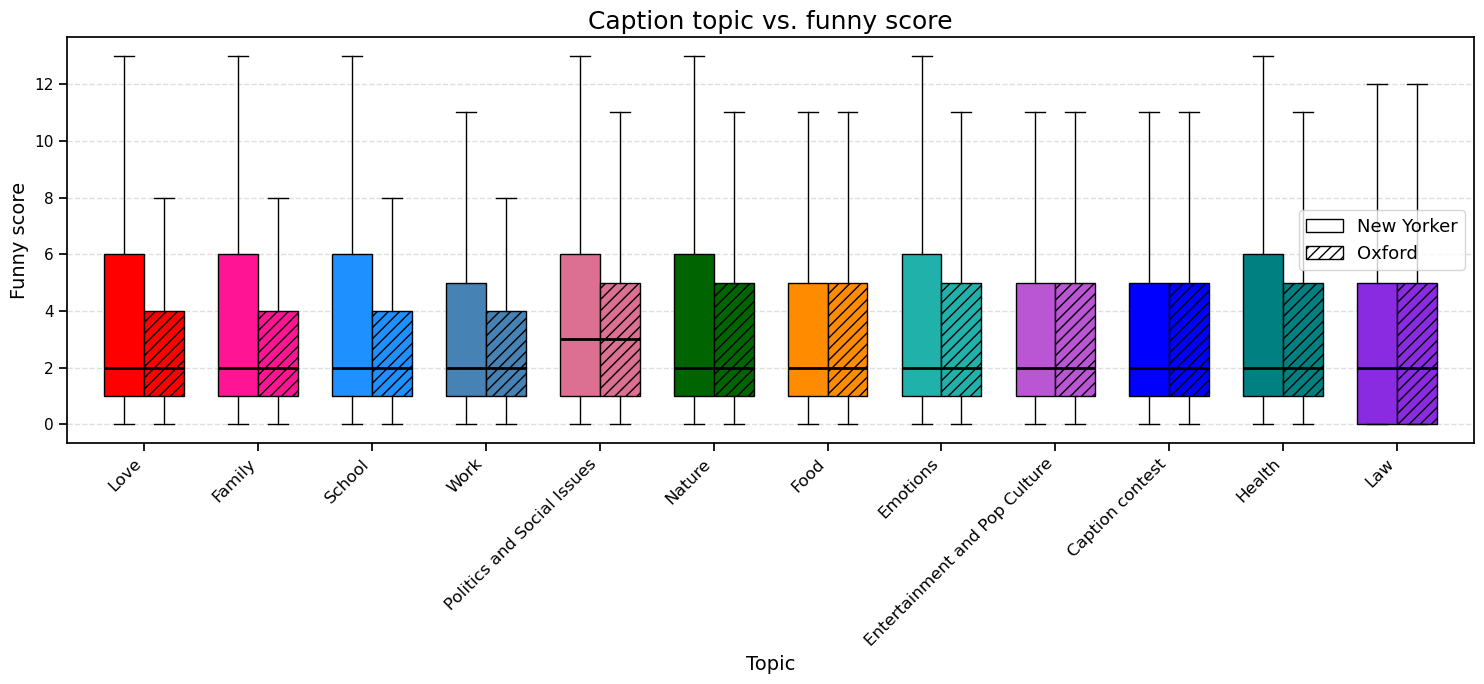
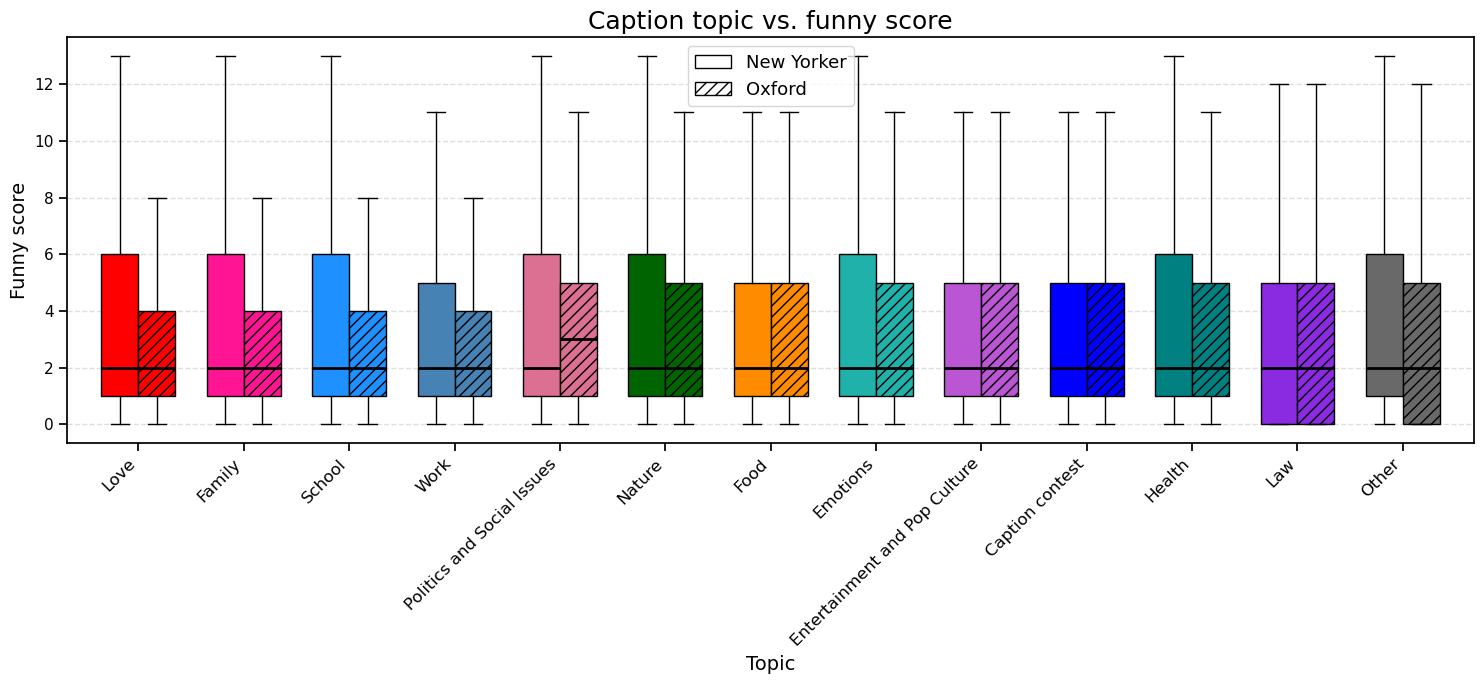
New interpretations + models&methods

diff --git a/index.html b/index.html
@@ -334,33 +334,32 @@
 						<iframe src="topic_distribution_piechart.html" width="100%" height="600" frameborder="0"></iframe>
 					</div>
 					<p style="margin-top: -30px;"></p>
-					<p>The distribution of topics in NYCC and OHIC revealed both shared and unique trends. Topics like <strong style="color:red;">Love</strong>, <strong style="color:deeppink;">Family</strong>, and <strong style="color:steelblue;">Work</strong> were the most frequently occurring, reflecting shared social roles, domestic life, and workplace dynamics. In contrast, topics like <strong style="color:palevioletred;">Politics and Social Issues</strong> were more prominent in OHIC, aligning with its internet-based context and focus on societal critique. Other topics, such as <strong style="color:darkgreen;">Nature</strong>, <strong style="color:darkorange;">Food</strong>, and <strong style="color:mediumorchid;">Entertainment and Pop Culture</strong>, highlighted environmental concerns, cultural rituals, and media consumption, while institutional topics like <strong style="color:teal;">Health</strong> and <strong style="color:blueviolet;">Law</strong> critiqued societal structures and professional roles.</p>
+					<p>This figure compares the normalized topic distributions of captions from NYCC and OHIC. While both datasets cover a similar range of themes, clear differences emerge in their relative emphasis across topics.</p>
+					<p>NYCC captions show a stronger concentration in <strong style="color:darkorange;">Food</strong>, <strong style="color:steelblue;">Work</strong>, <strong style="color:darkgreen;">Nature</strong>, and <strong style="color:teal;">Health</strong>. <strong style="color:darkorange;">Food</strong> is the most prominent topic, reflecting shared cultural experiences around eating, while <strong style="color:steelblue;">Work</strong> and <strong style="color:darkgreen;">Nature</strong> highlight professional life and environmental humor.</p>
+					<p>In contrast, OHIC captions are dominated by <strong style="color:blue;">Caption Contest</strong>, reflecting its self-referential and meme-driven nature. OHIC also emphasizes <strong style="color:blueviolet;">School</strong>, <strong style="color:red;">Emotions</strong>, <strong style="color:mediumorchid;">Entertainment and Pop Culture</strong>, <strong style="color:blueviolet;">Law</strong>, and <strong style="color:deeppink;">Love</strong>, showcasing a more expressive and pop-culture-oriented humor style.</p>
+					<p><strong style="color:palevioletred;">Politics and Social Issues</strong> are limited in both datasets but slightly more represented in OHIC. These differences highlight contrasting humor strategies: NYCC favors situational and observational humor, while OHIC leans toward self-referential and emotionally expressive humor. A limitation of this analysis is that the content of the images, which could heavily influence caption themes, is not considered.</p>
 
 					<!-- Topic vs. Funniness Scores -->
-					<h3><strong>2. Humor Type vs. Funniness Scores:</strong></h3>
+					<h3><strong>2. Topic vs. Funniness Scores:</strong></h3>
 					<div class="plot-container">
 						<img src="images/topic-vs-funniness.png" alt="Topic vs. Funniness Scores" />
 					</div>
-					<p>Our analysis revealed that topics like <strong style="color:red;">Love</strong> and <strong style="color:deeppink;">Family</strong> consistently scored higher in funniness, reflecting their broad appeal and relatability. These topics often draw on shared experiences and interpersonal dynamics, making them universally engaging. In contrast, topics like <strong style="color:palevioletred;">Politics and Social Issues</strong> were more polarizing, with mixed reactions from readers. This polarization may stem from the abstract and institutional language used in these captions, which focus on collective or systemic concepts rather than individual experiences.</p>
-
-					<!-- Topic vs. Rank -->
-					<h3><strong>3. Humor Type vs. Rank:</strong></h3>
-					<div class="plot-container">
-						<img src="images/topic-vs-rank.png" alt="Topic vs. Rank" />
-					</div>
-					<p>When analyzing topic vs. rank, relational topics like <strong style="color:red;">Love</strong> and <strong style="color:deeppink;">Family</strong> tended to achieve better ranks, reflecting their broad appeal and universal relatability. In contrast, topics like <strong style="color:palevioletred;">Politics and Social Issues</strong> and <strong style="color:darkgreen;">Nature</strong> often ranked lower, possibly due to their niche appeal or reliance on commentary and critique. Topics like <strong style="color:steelblue;">Work</strong> and <strong style="color:darkorange;">Food</strong> achieved moderate ranks, blending humor with shared cultural experiences and professional dynamics.</p>
-					<p style="margin-top: 40px">Overall, the topic classification highlights the diverse thematic dimensions of humor in the datasets. Relational topics like <strong style="color:red;">Love</strong> and <strong style="color:deeppink;">Family</strong> resonate broadly with audiences, while institutional topics like <strong style="color:teal;">Health</strong> and <strong style="color:blueviolet;">Law</strong> provide humor rooted in societal critique. The prominence of topics like <strong style="color:darkgreen;">Nature</strong> and <strong style="color:palevioletred;">Politics and Social Issues</strong> in OHIC reflects its internet-based context, where commentary and critique are more prevalent. These findings underscore the role of context and audience in shaping the thematic content of humor.</p>
+					<p>This figure shows the distribution of funny scores across topics for both NYCC and OHIC captions. While the distributions reveal substantial overlap, humor appreciation is influenced more by caption quality, phrasing, and context than by topic alone.</p>
+					<p>For most topics, including <strong style="color:darkorange;">Food</strong>, <strong style="color:mediumorchid;">Entertainment and Pop Culture</strong>, <strong style="color:blue;">Caption Contest</strong>, and <strong style="color:blueviolet;">Law</strong>, NYCC and OHIC captions achieve similar median funny scores, indicating comparable humorous effectiveness. However, <strong style="color:palevioletred;">Politics and Social Issues</strong> is the only topic where OHIC captions outperform NYCC, likely due to a more direct engagement with contemporary political content. In contrast, NYCC captions score higher for topics like <strong style="color:red;">Love</strong>, <strong style="color:deeppink;">Family</strong>, <strong style="color:blueviolet;">School</strong>, <strong style="color:darkgreen;">Nature</strong>, and <strong style="color:teal;">Health</strong>, suggesting more consistent humor in these themes.</p>				
+					<p>The high variance in funny scores across all topics, as shown by wide interquartile ranges and long whiskers, highlights that humor effectiveness depends on execution rather than thematic category. The <strong style="color:rgb(91, 91, 91);">Other</strong> category, as expected, shows the widest and most uneven distribution due to its heterogeneous nature.</p>			
+					
+					<p style="margin-top: 40px">Overall, the topic classification highlights the diverse thematic dimensions of humor in the datasets. Relational topics like <strong style="color:red;">Love</strong> and <strong style="color:deeppink;">Family</strong> resonate broadly with audiences, with NYCC captions achieving higher funniness scores in these themes. Institutional topics like <strong style="color:teal;">Health</strong> and <strong style="color:blueviolet;">Law</strong> provide humor rooted in societal critique, with both datasets showing comparable effectiveness in <strong style="color:blueviolet;">Law</strong>. The prominence of topics like <strong style="color:darkgreen;">Nature</strong> in NYCC reflects its focus on observational humor, while the higher representation of <strong style="color:palevioletred;">Politics and Social Issues</strong> in OHIC highlights its engagement with contemporary political content. These findings underscore the role of context, stylistic choices, and audience preferences in shaping the thematic content and reception of humor.</p>
 				</div>
 
 				<!-- Quiz Time 6 -->
 				<div class="inner align-center" id="quiz-6">
 					<h2>Quiz Time!</h2>
 					<div class="quiz-step" id="question-6">
-						<h3>Question 6: Which topic is most associated with relational humor?</h3>
+						<h3>Question 6: Which topic is the only one where OHIC captions outperform NYCC in funniness scores?</h3>
 						<div class="quiz-options">
-							<div class="quiz-option" data-answer="incorrect" data-next="data-story-7" data-feedback="Not quite! Politics is more associated with social critique.">Politics</div>
-							<div class="quiz-option" data-answer="incorrect" data-next="data-story-7" data-feedback="Not quite! Work is more associated with professional humor.">Work</div>
-							<div class="quiz-option" data-answer="correct" data-next="data-story-7" data-feedback="Correct! Love and Family are strongly associated with relational humor.">Love and Family</div>
+							<div class="quiz-option" data-answer="incorrect" data-next="data-story-7" data-feedback="Not quite! Love is more strongly associated with NYCC captions.">Love</div>
+							<div class="quiz-option" data-answer="incorrect" data-next="data-story-7" data-feedback="Not quite! Nature is more strongly associated with NYCC captions.">Nature</div>
+							<div class="quiz-option" data-answer="correct" data-next="data-story-7" data-feedback="Correct! Politics and Social Issues is the only topic where OHIC captions outperform NYCC.">Politics</div>
 						</div>
 						<p class="feedback hidden"></p>
 					</div>
@@ -370,8 +369,10 @@
 			<!-- 7. Word Clouds -->
 			<section class="wrapper style1" id="data-story-7">
 				<div class="inner align-left">
-					<h2>Word Clouds for Humor Types and Topics</h2>
+					<h2>Word Clouds</h2>
 					<p>Word clouds reveal the most frequent words associated with each humor type and topic, providing a quick overview of recurring themes in the datasets. These visualizations help identify the dominant vocabulary and recurring patterns in captions.</p>
+					
+					<h3><strong>1. Word Clouds for Humor Type:</strong></h3>
 					<p>For humor types, the word clouds highlight the distinct vocabulary used in different styles of humor:</p>
 					<div class="plot-container">
 						<img src="images/humor-types-word-clouds-nycc.png" alt="Word Clouds for Humor Types (NYCC)" />
@@ -384,21 +385,45 @@
 						<li><strong style="color:brown;">Raunchy:</strong> Words like "sexy," "bold," and "explicit" reflect humor that is risqué and adult-oriented.</li>
 						<li><strong style="color:gold;">Corny:</strong> Words like "joke," "dad," and "cheesy" emphasize humor that is predictable yet endearing.</li>
 					</ul>
+
+					<h3><strong>2. Word Clouds for Topics:</strong></h3>
 					<p>For topics, the word clouds illustrate the thematic focus of captions:</p>
 					<div class="plot-container">
 						<img src="images/topic-word-clouds-nycc.png" alt="Word Clouds for Topics (NYCC)" />
 						<img src="images/topic-word-clouds-ohic.png" alt="Word Clouds for Topics (OHIC)" />
 					</div>
+					<p><b>NYCC Caption Dataset:</b></p>
 					<ul>
-						<li><strong style="color:red;">Love:</strong> Words like "love," "kiss," and "heart" dominate, reflecting romantic and relational humor.</li>
-						<li><strong style="color:steelblue;">Work:</strong> Words like "job," "boss," and "office" highlight professional hierarchies and workplace stressors.</li>
-						<li><strong style="color:darkgreen;">Nature:</strong> Words like "trees," "planet," and "global warming" indicate environmental concerns blended with humor.</li>
-						<li><strong style="color:palevioletred;">Politics and Social Issues:</strong> Words like "debate," "government," and "climate change" reflect societal critique.</li>
-						<li><strong style="color:teal;">Health:</strong> Words like "doctor," "patient," and "hospital" emphasize healthcare-related humor.</li>
-						<li><strong style="color:mediumorchid;">Entertainment and Pop Culture:</strong> Words like "movie," "show," and "star" highlight media consumption and celebrity culture.</li>
+						<li><b style="color:red">Love:</b> Dominated by words like <i>kiss</i>, <i>heart</i>, <i>marriage</i>, and <i>sex</i>, reflecting interpersonal relationships and modern dating life.</li>
+						<li><b style="color:deeppink">Family:</b> Features terms like <i>home</i>, <i>Mom</i>, and <i>kid</i>, emphasizing domestic life and parental relationships.</li>
+						<li><b style="color:dodgerblue">School:</b> Includes <i>school</i>, <i>class</i>, and <i>college</i>, highlighting educational settings and recurring routines.</li>
+						<li><b style="color:steelblue">Work:</b> Words like <i>job</i>, <i>boss</i>, and <i>office</i> point to workplace stress and corporate culture.</li>
+						<li><b style="color:palevioletred">Politics and Social Issues:</b> Focuses on <i>politics</i>, <i>debate</i>, and <i>climate change</i>, emphasizing systemic critique.</li>
+						<li><b style="color:darkgreen">Nature:</b> Includes <i>trees</i>, <i>planet</i>, and <i>global warming</i>, blending environmental concerns with humor.</li>
+						<li><b style="color:darkorange">Food:</b> Features <i>restaurant</i>, <i>pizza</i>, and <i>menu</i>, reflecting shared cultural experiences around eating.</li>
+						<li><b style="color:lightseagreen">Emotions:</b> Marked by introspective terms like <i>feel</i>, <i>cry</i>, and <i>therapy</i>, emphasizing emotional vulnerability.</li>
+						<li><b style="color:mediumorchid">Entertainment and Pop Culture:</b> Includes <i>movie</i>, <i>TV</i>, and <i>star</i>, reflecting humor grounded in media and celebrity culture.</li>
+						<li><b style="color:blue">Caption Contest:</b> Self-referential terms like <i>caption</i>, <i>joke</i>, and <i>funny</i> dominate.</li>
+						<li><b style="color:teal">Health</b> and <b style="color:blueviolet">Law:</b> Specialized vocabularies focus on <i>doctor</i>, <i>hospital</i>, <i>lawyer</i>, and <i>court</i>.</li>
+						<li><b style="color:dimgrey">Other:</b> Generic terms like <i>thing</i> and <i>people</i>, serving as a residual category.</li>
 					</ul>
-					<p>These word clouds illustrate how different humor types and topics are characterized by distinct vocabularies. For instance, relational humor in the <strong style="color:red;">Love</strong> and <strong style="color:deeppink;">Family</strong> topics is strongly tied to interpersonal and emotional language, while the <strong style="color:darkgreen;">Nature</strong> topic often blends environmental themes with observational humor.</p>
-					<p>By analyzing these word clouds, we can better understand the thematic focus of captions and the recurring patterns that resonate with readers. These insights provide a qualitative understanding of how humor is expressed across different styles and themes.</p>
+					
+					<p><b>OHIC Caption Dataset:</b></p>
+					<ul>
+						<li><b style="color:red">Love:</b> Words like <i>relationship</i>, <i>crush</i>, and <i>friend</i> emphasize modern dating culture and youth-oriented humor.</li>
+						<li><b style="color:deeppink">Family:</b> Informal terms like <i>mom</i>, <i>dad</i>, and <i>house</i> focus on everyday domestic situations.</li>
+						<li><b style="color:dodgerblue">School:</b> Includes <i>teacher</i>, <i>homework</i>, and <i>exam</i>, reflecting shared student struggles.</li>
+						<li><b style="color:steelblue">Work:</b> Words like <i>job</i>, <i>boss</i>, and <i>money</i> highlight time pressure and compensation.</li>
+						<li><b style="color:palevioletred">Politics and Social Issues:</b> Features <i>government</i>, <i>election</i>, and <i>freedom</i>, with explicit references to contemporary figures like <i>Trump</i>.</li>
+						<li><b style="color:darkgreen">Nature:</b> Focuses on <i>tree</i>, <i>sky</i>, and <i>rain</i>, emphasizing situational contrasts over climate discourse.</li>
+						<li><b style="color:darkorange">Food:</b> Includes <i>chicken</i>, <i>Taco Bell</i>, and <i>pizza</i>, reflecting humor tied to pop culture and consumption habits.</li>
+						<li><b style="color:lightseagreen">Emotions:</b> Words like <i>sad</i>, <i>happy</i>, and <i>anxiety</i> emphasize explicit emotional expression.</li>
+						<li><b style="color:mediumorchid">Entertainment and Pop Culture:</b> Features <i>anime</i>, <i>Fortnite</i>, and <i>Disney</i>, relying on internet culture and fandoms.</li>
+						<li><b style="color:blue">Caption Contest:</b> Includes <i>meme</i>, <i>post</i>, and <i>funny</i>, highlighting meta-awareness of captioning as a social activity.</li>
+						<li><b style="color:teal">Health:</b> Pandemic-related terms like <i>covid</i> and <i>vaccine</i> dominate.</li>
+						<li><b style="color:blueviolet">Law:</b> Includes <i>lawyer</i>, <i>court</i>, and <i>crime</i>, framed through dialogue and interpersonal tension.</li>
+						<li><b style="color:dimgrey">Other:</b> Generic conversational tokens like <i>day</i> and <i>thing</i>.</li>
+					</ul>
 				</div>
 
 				<!-- Quiz Time 7 -->
@@ -469,21 +494,34 @@
 					
 					<!-- Topic Proportions Over Time -->
 					<h3><strong>1. Topic Proportions Over Time:</strong></h3>
-					<p>The interactive plot below illustrates the proportions of various topics in captions over time. You can explore the trends by hovering over the lines to see specific values for each year and topic.</p>
+					<p>This figure presents a line plot of normalized topic distributions in NYCC captions over time. The interactive plot below allows you to explore the proportions of various topics by hovering over the lines to see specific values for each year and topic.</p>
 					<p style="margin-top: -20px;"></p>
 					<div class="plot-container">
 						<iframe src="http://127.0.0.1:8060" style="width: 100%; height: 600px; border: none;"></iframe>
 					</div>
-					<p>The topic proportions over time highlight the dominance of certain themes, such as <strong style="color:darkorange;">Food</strong> and <strong style="color:blue;">Caption Contest</strong>, which consistently maintain high proportions across the years. These topics reflect universal and timeless themes that resonate broadly with audiences. Additionally, the overall stability of the curves suggests that the thematic focus of captions remains relatively consistent over time, with each topic maintaining a steady presence in the dataset.</p>
-					
+					<p>The topic proportions over time highlight the dominance of certain themes, such as <strong style="color:darkorange;">Food</strong> and <strong style="color:blue;">Caption Contest</strong>, which consistently maintain high proportions across the years. These topics reflect universal and timeless themes that resonate broadly with audiences. Other topics, such as <strong style="color:red;">Love</strong>, <strong style="color:deeppink;">Family</strong>, and <strong style="color:darkgreen;">Nature</strong>, remain steady over time, with occasional spikes reflecting specific cultural or societal moments.</p>
+
 					<!-- Topic Variation Heatmap -->
 					<h3><strong>2. Topic Variation Heatmap:</strong></h3>
+					<p>This figure presents a heatmap of the standardized variation (z-scores) of topic proportions in NYCC captions over time. Deviations from the mean highlight periods during which certain themes became unusually prominent or marginal, often aligning with major social, political, and global events.</p>
 					<div class="plot-container">
 						<iframe src="topic_variation_heatmap.html" style="width: 100%; height: 600px; border: none;"></iframe>
 					</div>
-					<p style="margin-top: -20px;">The heatmap of topic variation (z-scores) provides a deeper look at deviations from the mean topic proportions. Notable spikes in specific years highlight the influence of external events on humor. For instance, in <strong>2016</strong>, captions related to <strong style="color:blueviolet;">Law</strong> and <strong style="color:palevioletred;">Politics and Social Issues</strong> peaked, coinciding with the U.S. presidential election and the rise of Trump. Similarly, in <strong>2022</strong> and <strong>2024</strong>, there is a noticeable rise in captions about <strong style="color:mediumorchid;">Entertainment and Pop Culture</strong>, possibly reflecting the growing influence of media consumption, celebrity culture, and the resurgence of major global events like the Oscars or the World Cup.</p>
-					
-					<p>These analyses demonstrate how external events and societal changes shape the thematic focus of humor over time. By examining these trends, we gain insights into the dynamic interplay between cultural context and humor.</p>
+					<p style="margin-top: -20px;">The heatmap reveals several notable trends:</p>
+					<ul>
+						<li><strong style="color:red;">Love</strong> and <strong style="color:deeppink;">Family</strong>: These themes remain steady over the years, with sharp rises in 2019 for Love and 2022 for Family, possibly reflecting cultural shifts or societal well-being.</li>
+						<li><strong style="color:dodgerblue;">School</strong>: Mentions of School increase substantially in 2021 and 2023, aligning with Covid’s long-term impact on education and the launch of ChatGPT, which affected university students.</li>
+						<li><strong style="color:steelblue;">Work</strong>: Overrepresented in 2016, reflecting pre-pandemic concerns about corporate culture, with renewed interest in 2023 linked to post-pandemic work reorganization.</li>
+						<li><strong style="color:palevioletred;">Politics and Social Issues</strong>: Peaks in 2016 and 2019 align with the U.S. presidential election and Trump impeachment proceedings, followed by a decline after 2020 as political satire gave way to more personal themes.</li>
+						<li><strong style="color:darkgreen;">Nature</strong>: Peaked in 2024, reflecting increased public concern over climate change and environmental issues.</li>
+						<li><strong style="color:darkorange;">Food</strong>: Consistently the most prominent topic, reflecting its universal appeal and cultural significance.</li>
+						<li><strong style="color:lightseagreen;">Emotions</strong>: Declined in 2017 but rose steadily afterward, capturing post-pandemic emotional reflection and a broader openness to discussing mental health.</li>
+						<li><strong style="color:mediumorchid;">Entertainment and Pop Culture</strong>: Steady over the years, with a slight increase from 2022, reflecting the rise of TikTok, Instagram reels, and global events like the Oscars and World Cup.</li>
+						<li><strong style="color:blue;">Caption Contest</strong>: Dominates NYCC captions alongside Food, with a sharp rise in 2024, possibly due to increased audience familiarity with the contest format.</li>
+						<li><strong style="color:teal;">Health</strong>: Peaked in 2020 and 2023 due to the Covid pandemic and its aftermath, with a decline in 2024 reflecting pandemic fatigue.</li>
+						<li><strong style="color:blueviolet;">Law</strong>: Peaked in 2016 during election-related legal disputes, with a decline in 2022–2024 as media focus on high-profile court cases waned.</li>
+					</ul>
+					<p>Overall, these analyses demonstrate how external events and societal changes shape the thematic focus of humor over time. By examining these trends, we gain insights into the dynamic interplay between cultural context and humor.</p>
 				</div>
 
 				<!-- Quiz Time 9 -->

diff --git a/models-methods.html b/models-methods.html
@@ -118,13 +118,25 @@
             <section class="spotlight style1 orient-right content-align-left image-position-center onscroll-image-fade-in" id="temporal-trends">
                 <div class="content">
                     <h2>4. Temporal and Cultural Trend Analysis</h2>
-                    <p><strong>Goal:</strong> Track how humor evolves across time.</p>
+                    <p><strong>Goal:</strong> Analyze how humor themes evolve over time and correlate with major sociopolitical and cultural events.</p>
+                    <p><strong>Methodology:</strong></p>
                     <ul>
-                        <li>Group captions by year and compute theme proportions.</li>
-                        <li>Detect major shifts in humor trends.</li>
-                        <li>Correlate with sociopolitical events using contextual data.</li>
-                        <li>Visualize using stacked bar charts or rolling averages.</li>
+                        <li>Group captions by year and compute the normalized proportions of topics.</li>
+                        <li>Visualize topic trends over time using interactive line plots.</li>
+                        <li>Analyze deviations from the mean topic proportions using z-scores and visualize them with heatmaps.</li>
+                        <li>Identify and interpret notable spikes or declines in topic proportions in relation to external events.</li>
                     </ul>
+                    <p><strong>Key Findings:</strong></p>
+                    <ul>
+                        <li><strong style="color:darkorange;">Food</strong> and <strong style="color:blue;">Caption Contest</strong> consistently dominate the dataset, reflecting universal and timeless themes.</li>
+                        <li><strong style="color:red;">Love</strong> and <strong style="color:deeppink;">Family</strong> remain steady over time, with occasional spikes reflecting cultural or societal moments.</li>
+                        <li><strong style="color:palevioletred;">Politics and Social Issues</strong> peaked in 2016 and 2019, aligning with the U.S. presidential election and Trump impeachment proceedings, before declining post-2020.</li>
+                        <li><strong style="color:steelblue;">Work</strong> showed renewed interest in 2023, reflecting post-pandemic work reorganization and burnout discussions.</li>
+                        <li><strong style="color:darkgreen;">Nature</strong> peaked in 2024, reflecting increased public concern over climate change and environmental issues.</li>
+                        <li><strong style="color:lightseagreen;">Emotions</strong> rose steadily post-2017, capturing post-pandemic emotional reflection and a broader openness to discussing mental health.</li>
+                    </ul>
+                    <p>These analyses demonstrate how external events and societal changes shape the thematic focus of humor over time.</p>
+                    <p>By examining these trends, we gain insights into the dynamic interplay between cultural context and humor.</p>
                 </div>
                 <div class="image">
                     <img src="images/trend.png" alt="Temporal and Cultural Trend Analysis" />
